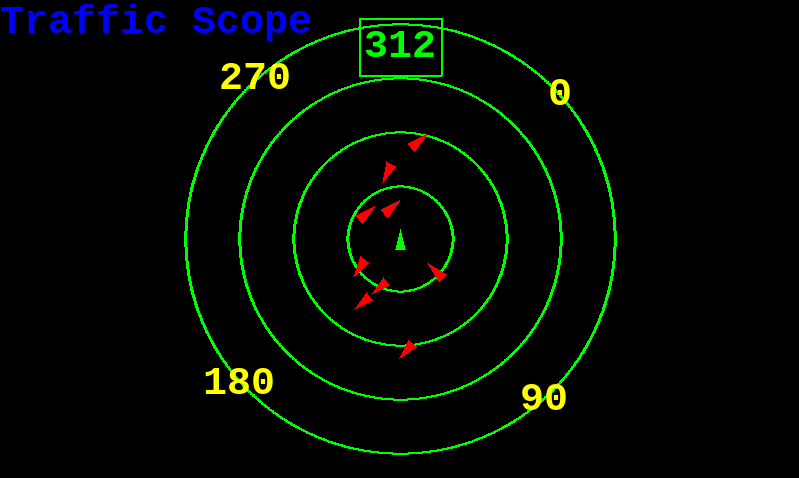
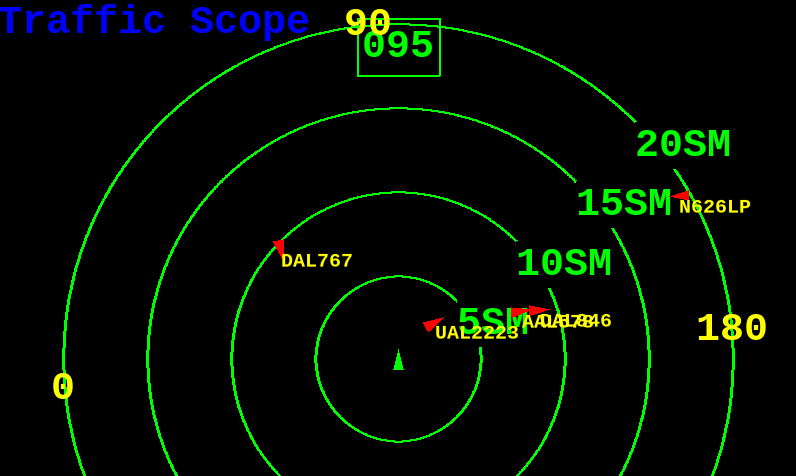
Try shifting the scope center to improve forward vis.

diff --git a/views/adsb_top_view_scope.py b/views/adsb_top_view_scope.py
@@ -117,7 +117,7 @@ class AdsbTopViewScope(AdsbElement):
         distance_in_user_units: float,
         scope_range: float
     ) -> int:
-        max_pixel_distance = self.__center__[1] - self.__top_border__
+        max_pixel_distance = self.__scope_center__[1] - self.__top_border__
 
         if distance_in_user_units > scope_range:
             return max_pixel_distance
@@ -150,8 +150,8 @@ class AdsbTopViewScope(AdsbElement):
         delta_angle_radians = math.radians(angle_degrees)
         reticle_x = math.cos(delta_angle_radians)
         reticle_y = math.sin(delta_angle_radians)
-        screen_x = (reticle_x * distance_pixels) + self.__center__[0]
-        screen_y = (reticle_y * distance_pixels) + self.__center__[1]
+        screen_x = (reticle_x * distance_pixels) + self.__scope_center__[0]
+        screen_y = (reticle_y * distance_pixels) + self.__scope_center__[1]
 
         return (int(screen_x), int(screen_y))
 
@@ -294,7 +294,7 @@ class AdsbTopViewScope(AdsbElement):
             framebuffer {Surface} -- The render target.
         """
         points = self.__get_traffic_indicator__(
-            self.__center__,
+            self.__scope_center__,
             0,
             0)
 
@@ -338,15 +338,15 @@ class AdsbTopViewScope(AdsbElement):
             pygame.draw.circle(
                 framebuffer,
                 colors.GREEN,
-                self.__center__,
+                self.__scope_center__,
                 radius_pixels,
                 2)
             distance_text = "{}{}".format(
                 distance,
                 units_suffix)
             #pythag_dist = int(math.sqrt(2 * (radius_pixels * radius_pixels)))
-            text_pos = [self.__center__[0] + int(sin_half_pi * radius_pixels),
-                        self.__center__[1] - int(cos_half_pi * radius_pixels)]
+            text_pos = [self.__scope_center__[0] + int(sin_half_pi * radius_pixels),
+                        self.__scope_center__[1] - int(cos_half_pi * radius_pixels)]
 
             rendered_text, size = HudDataCache.get_cached_text_texture(
                 distance_text,
@@ -432,16 +432,21 @@ class AdsbTopViewScope(AdsbElement):
         Returns:
             [type]: [description]
         """
+        # TODO: Add something here to protect against "flapping" of the zoom
+        #       when the aircraft is really close to the boundary between
         is_valid_groundspeed = orientation.groundspeed is not None and isinstance(
             orientation.groundspeed,
             Number)
+
+        # TODO: Add some sort of "zoom" transition to show that a zoom in
+        #       or zoom out has occured.
 
         if not is_valid_groundspeed:
             return AdsbTopViewScope.DEFAULT_SCOPE_RANGE
 
         groundspeed = units.get_converted_units(
-            CONFIGURATION.get_units(),
-            orientation.groundspeed)
+            configuration.CONFIGURATION.get_units(),
+            orientation.groundspeed * units.yards_to_nm)
 
         distance_in_10_minutes = groundspeed / 6
 
